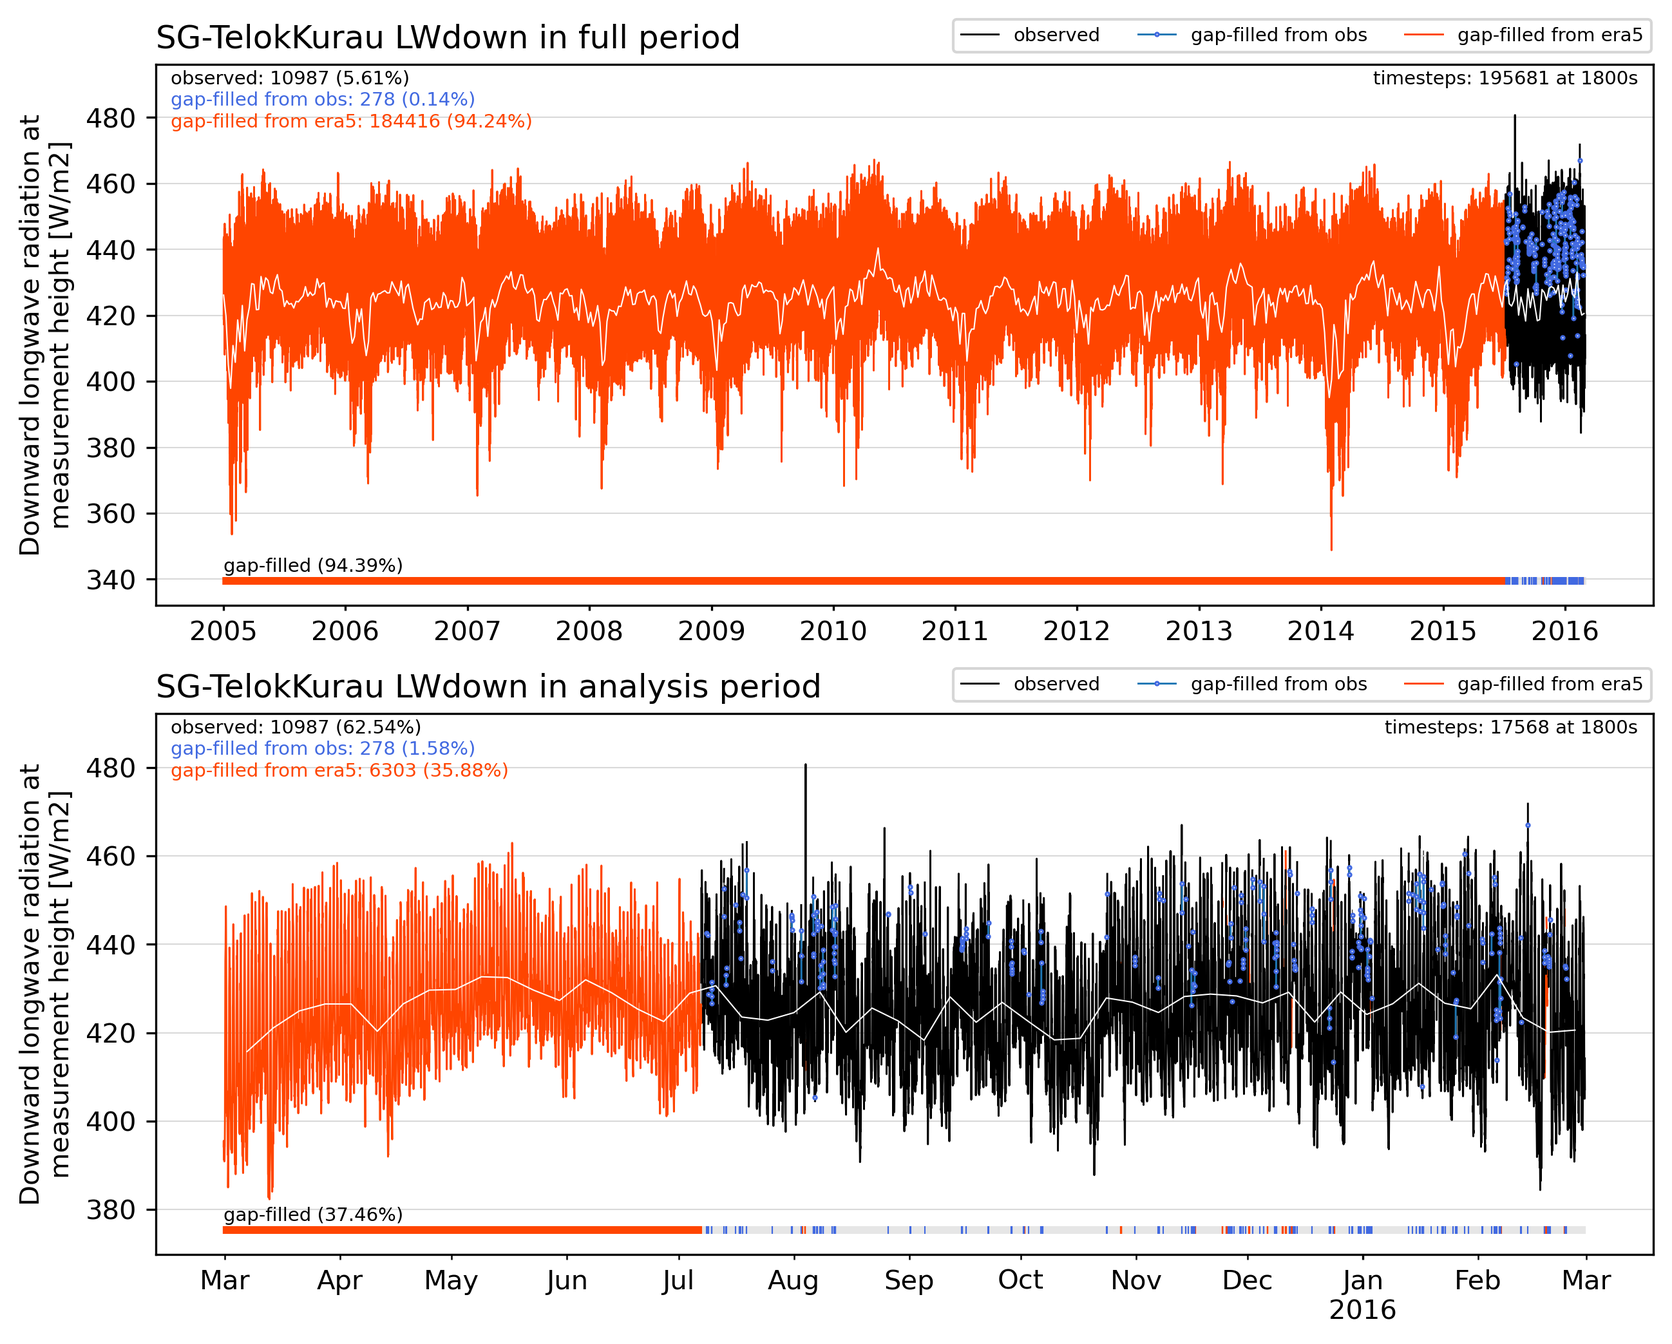
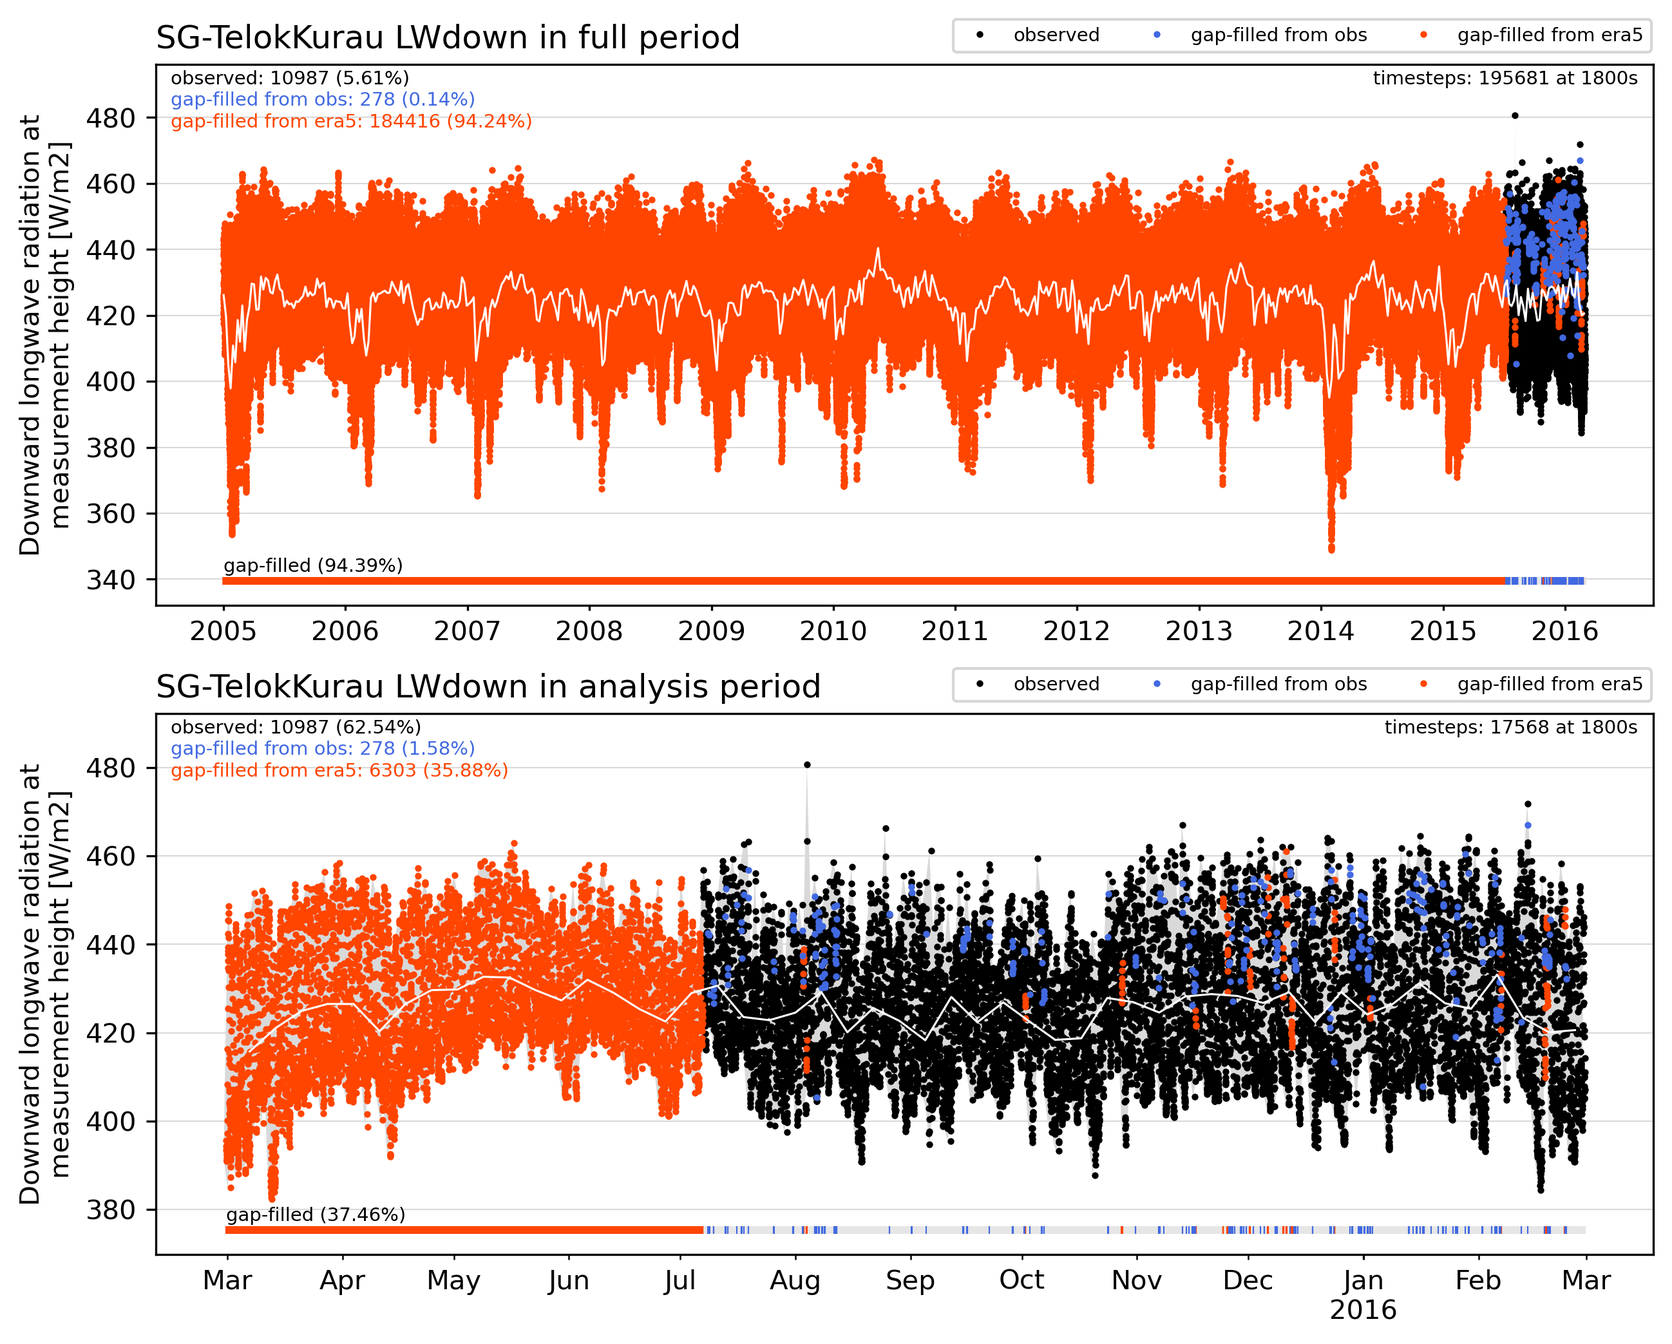
update SG-TelokKurau plots, and add site photo

diff --git a/SG-TelokKurau/index.md b/SG-TelokKurau/index.md
@@ -2,6 +2,10 @@
 
 ## Site observations
 
+Observation data contact:
+
+Eric Velasco: he_velasco2003@yahoo.com; Matthias Roth: geomr@nus.edu.sg
+
 |                           | observation_attributes                                                                                                                                                                                                                                                                    |
 |:--------------------------|:------------------------------------------------------------------------------------------------------------------------------------------------------------------------------------------------------------------------------------------------------------------------------------------|
 | title                     | URBAN-PLUMBER forcing data for SG-TelokKurau                                                                                                                                                                                                                                              |
@@ -10,52 +14,53 @@
 | version                   | v1                                                                                                                                                                                                                                                                                        |
 | conventions               | ALMA+CF.rev13                                                                                                                                                                                                                                                                             |
 | featureType               | timeSeries                                                                                                                                                                                                                                                                                |
-| time_coverage_start       | 2015-02-28 16:30:00                                                                                                                                                                                                                                                                       |
+| time_coverage_start       | 2005-01-01 00:00:00                                                                                                                                                                                                                                                                       |
 | time_coverage_end         | 2016-02-29 16:00:00                                                                                                                                                                                                                                                                       |
 | time_analysis_start       | 2015-02-28 16:30:00                                                                                                                                                                                                                                                                       |
 | time_shown_in             | UTC                                                                                                                                                                                                                                                                                       |
 | local_utc_offset_hours    | 8.0                                                                                                                                                                                                                                                                                       |
 | timestep_interval_seconds | 1800.0                                                                                                                                                                                                                                                                                    |
-| timestep_number_spinup    | 0                                                                                                                                                                                                                                                                                         |
+| timestep_number_spinup    | 178113                                                                                                                                                                                                                                                                                    |
 | timestep_number_analysis  | 17568                                                                                                                                                                                                                                                                                     |
-| date_created              | 2021-02-16 15:07:27                                                                                                                                                                                                                                                                       |
+| date_created              | 2021-02-17 12:56:51                                                                                                                                                                                                                                                                       |
 | project_contact           | Mathew Lipson: m.lipson@unsw.edu.au, Sue Grimmond: c.s.grimmond@reading.ac.uk, Martin Best: martin.best@metoffice.gov.uk                                                                                                                                                                  |
 | observations_contact      | Eric Velasco: he_velasco2003@yahoo.com; Matthias Roth: geomr@nus.edu.sg                                                                                                                                                                                                                   |
-| observations_reference    | Roth, Jansson and Velasco (2017) https://doi.org/10.1002/joc.4873                                                                                                                                                                                                                         |
-|                           | Velasco, Roth, Tan, Quak, Nabarro, Norford. (2013) https://doi.org/10.5194/acp-13-10185-2013                                                                                                                                                                                              |
-|                           | Flux tower website: https://www.nusurbanclimate.com/tkfluxtowersingapore                                                                                                                                                                                                                  |
+| observations_reference    | Roth, Jansson and Velasco (2017) https://doi.org/10.1002/joc.4873; Velasco, Roth, Tan, Quak, Nabarro, Norford. (2013) https://doi.org/10.5194/acp-13-10185-2013; Flux tower website: https://www.nusurbanclimate.com/tkfluxtowersingapore                                                 |
 | other_references          | ERA5: Copernicus Climate Change Service (C3S) (2017): https://cds.climate.copernicus.eu/cdsapp#!/home                                                                                                                                                                                     |
 | acknowledgements          | Contains modified Copernicus Climate Change Service Information (ERA5 hourly data on single levels). With thanks to all involved in collecting, processing and sharing observational data                                                                                                 |
 
 ## Site characteristics
 
+[![site_photo.jpg](site_photo.jpg)](site_photo.jpg)
 
-|   id | parameter                       |     value | units         | source                | doi                                                         |
-|-----:|:--------------------------------|----------:|:--------------|:----------------------|:------------------------------------------------------------|
-|    1 | latitude                        |    1.3143 | degrees_north | Roth et al., 2017     | https://doi.org/10.1002/joc.4873                            |
-|    2 | longitude                       |  103.911  | degrees_east  | Roth et al., 2017     | https://doi.org/10.1002/joc.4873                            |
-|    3 | ground_height                   |   10      | m             | Observations website  | https://www.nusurbanclimate.com/tkfluxtowersingapore        |
-|    4 | measurement_height_above_ground |   23.5    | m             | Observations website  | https://www.nusurbanclimate.com/tkfluxtowersingapore        |
-|    5 | impervious_area_fraction        |    0.85   | 1             | Observations website  | https://www.nusurbanclimate.com/tkfluxtowersingapore        |
-|    6 | tree_area_fraction              |    0.11   | 1             | Observations website  | https://www.nusurbanclimate.com/tkfluxtowersingapore        |
-|    7 | grass_area_fraction             |    0.04   | 1             | Observations website  | https://www.nusurbanclimate.com/tkfluxtowersingapore        |
-|    8 | bare_soil_area_fraction         |    0      | 1             | Observations website  | https://www.nusurbanclimate.com/tkfluxtowersingapore        |
-|    9 | water_area_fraction             |    0      | 1             | Observations website  | https://www.nusurbanclimate.com/tkfluxtowersingapore        |
-|   10 | roof_area_fraction              |    0.39   | 1             | Observations website  | https://www.nusurbanclimate.com/tkfluxtowersingapore        |
-|   11 | road_area_fraction              |    0.12   | 1             | Observations website  | https://www.nusurbanclimate.com/tkfluxtowersingapore        |
-|   12 | footpath_area_fraction          |    0.34   | 1             | Observations website  | https://www.nusurbanclimate.com/tkfluxtowersingapore        |
-|   13 | building_mean_height            |    9.9    | m             | Observations website  | https://www.nusurbanclimate.com/tkfluxtowersingapore        |
-|   14 | tree_mean_height                |    7.3    | m             | Observations website  | https://www.nusurbanclimate.com/tkfluxtowersingapore        |
-|   15 | roughness_length_momentum       |    0.8    | m             | Observations website  | https://www.nusurbanclimate.com/tkfluxtowersingapore        |
-|   16 | displacement_height             |    7.34   | m             | Observations website  | https://www.nusurbanclimate.com/tkfluxtowersingapore        |
-|   17 | canyon_height_width_ratio       |    0.61   | 1             | Demuzere et al., 2017 | https://doi.org/10.1002/qj.3028                             |
-|   18 | wall_to_plan_area_ratio         |    0.66   | 1             | Liu et al., 2017      | https://iopscience.iop.org/article/10.1088/1748-9326/aa7ee7 |
-|   19 | average_albedo_at_midday        |    0.167  | 1             | -                     | -                                                           |
-|   20 | resident_population_density     | 7490      | person/km2    | Roth et al., 2017     | https://doi.org/10.1002/joc.4873                            |
-|   21 | anthropogenic_heat_flux_mean    |   11      | W/m2          | Quah and Roth 2012    | https://doi.org/10.1016/j.atmosenv.2011.10.015              |
-|   22 | topsoil_clay_fraction           |    0.33   | 1             | OpenLandMap           | https://www.openlandmap.org/                                |
-|   23 | topsoil_sand_fraction           |    0.42   | 1             | OpenLandMap           | https://www.openlandmap.org/                                |
-|   24 | topsoil_bulk_density            | 1030      | kg/m3         | OpenLandMap           | https://www.openlandmap.org/                                |
+"View of TK study area towards SE from above in August 2017." image source: Minghong Yu and Matthias Roth
+
+|   id | parameter                       |     value | units         | source               | doi                                                                                                                        |
+|-----:|:--------------------------------|----------:|:--------------|:---------------------|:---------------------------------------------------------------------------------------------------------------------------|
+|    1 | latitude                        |    1.3143 | degrees_north | Roth et al. 2017     | [https://doi.org/10.1002/joc.4873](https://doi.org/10.1002/joc.4873)                                                       |
+|    2 | longitude                       |  103.911  | degrees_east  | Roth et al. 2017     | [https://doi.org/10.1002/joc.4873](https://doi.org/10.1002/joc.4873)                                                       |
+|    3 | ground_height                   |    5      | m             | Velasco et al. 2013  | [https://doi.org/10.5194/acp-13-10185-2013](https://doi.org/10.5194/acp-13-10185-2013)                                     |
+|    4 | measurement_height_above_ground |   23.5    | m             | Tower website        | [https://www.nusurbanclimate.com/tkfluxtowersingapore](https://www.nusurbanclimate.com/tkfluxtowersingapore)               |
+|    5 | impervious_area_fraction        |    0.85   | 1             | Tower website        | [https://www.nusurbanclimate.com/tkfluxtowersingapore](https://www.nusurbanclimate.com/tkfluxtowersingapore)               |
+|    6 | tree_area_fraction              |    0.11   | 1             | Tower website        | [https://www.nusurbanclimate.com/tkfluxtowersingapore](https://www.nusurbanclimate.com/tkfluxtowersingapore)               |
+|    7 | grass_area_fraction             |    0.04   | 1             | Tower website        | [https://www.nusurbanclimate.com/tkfluxtowersingapore](https://www.nusurbanclimate.com/tkfluxtowersingapore)               |
+|    8 | bare_soil_area_fraction         |    0      | 1             | Tower website        | [https://www.nusurbanclimate.com/tkfluxtowersingapore](https://www.nusurbanclimate.com/tkfluxtowersingapore)               |
+|    9 | water_area_fraction             |    0      | 1             | Tower website        | [https://www.nusurbanclimate.com/tkfluxtowersingapore](https://www.nusurbanclimate.com/tkfluxtowersingapore)               |
+|   10 | roof_area_fraction              |    0.39   | 1             | Tower website        | [https://www.nusurbanclimate.com/tkfluxtowersingapore](https://www.nusurbanclimate.com/tkfluxtowersingapore)               |
+|   11 | road_area_fraction              |    0.12   | 1             | Tower website        | [https://www.nusurbanclimate.com/tkfluxtowersingapore](https://www.nusurbanclimate.com/tkfluxtowersingapore)               |
+|   12 | footpath_area_fraction          |    0.34   | 1             | Tower website        | [https://www.nusurbanclimate.com/tkfluxtowersingapore](https://www.nusurbanclimate.com/tkfluxtowersingapore)               |
+|   13 | building_mean_height            |    9.9    | m             | Tower website        | [https://www.nusurbanclimate.com/tkfluxtowersingapore](https://www.nusurbanclimate.com/tkfluxtowersingapore)               |
+|   14 | tree_mean_height                |    7.3    | m             | Tower website        | [https://www.nusurbanclimate.com/tkfluxtowersingapore](https://www.nusurbanclimate.com/tkfluxtowersingapore)               |
+|   15 | roughness_length_momentum       |    0.8    | m             | Tower website        | [https://www.nusurbanclimate.com/tkfluxtowersingapore](https://www.nusurbanclimate.com/tkfluxtowersingapore)               |
+|   16 | displacement_height             |    7.34   | m             | Tower website        | [https://www.nusurbanclimate.com/tkfluxtowersingapore](https://www.nusurbanclimate.com/tkfluxtowersingapore)               |
+|   17 | canyon_height_width_ratio       |    0.61   | 1             | Demuzere et al. 2017 | [https://doi.org/10.1002/qj.3028](https://doi.org/10.1002/qj.3028)                                                         |
+|   18 | wall_to_plan_area_ratio         |    0.66   | 1             | Liu et al. 2017      | [https://iopscience.iop.org/article/10.1088/1748-9326/aa7ee7](https://iopscience.iop.org/article/10.1088/1748-9326/aa7ee7) |
+|   19 | average_albedo_at_midday        |    0.167  | 1             | Current data         | -                                                                                                                          |
+|   20 | resident_population_density     | 7490      | person/km2    | Roth et al. 2017     | [https://doi.org/10.1002/joc.4873](https://doi.org/10.1002/joc.4873)                                                       |
+|   21 | anthropogenic_heat_flux_mean    |   11      | W/m2          | Quah and Roth 2012   | [https://doi.org/10.1016/j.atmosenv.2011.10.015](https://doi.org/10.1016/j.atmosenv.2011.10.015)                           |
+|   22 | topsoil_clay_fraction           |    0.33   | 1             | OpenLandMap          | [https://doi.org/10.5281/zenodo.2525663](https://doi.org/10.5281/zenodo.2525663)                                           |
+|   23 | topsoil_sand_fraction           |    0.42   | 1             | OpenLandMap          | [https://doi.org/10.5281/zenodo.2525662](https://doi.org/10.5281/zenodo.2525662)                                           |
+|   24 | topsoil_bulk_density            | 1030      | kg/m3         | OpenLandMap          | [https://doi.org/10.5281/zenodo.2525665](https://doi.org/10.5281/zenodo.2525665)                                           |
 
 ## Site observations
 
@@ -99,29 +104,28 @@
 
 [![./obs_plots/Wind_E_gapfilled_forcing.png](./obs_plots/Wind_E_gapfilled_forcing.png)](./obs_plots/Wind_E_gapfilled_forcing.png)
 
-## Quality control and gap filling procedure
+## Quality control (qc) and gap filling procedure
 
 
 **QC process on observations**
  
  - remove values outside the ALMAv3 protocol expected range values
  - remove night periods for shortwave between civil twilight times for site latitude and longitude
- - remove constant values of 4 or more timesteps (for all data excluding rainfall, snowfall)
- - remove constant values of 6 or more timesteps, excluding zero values (only rainfall, snowfall)
+ - remove constant values of 4 or more timesteps (excluding rainfall and snowfall)
  - remove outliers by applying a filter for values outside 5 standard deviations for each hour in a rolling 30 day window. Applying that filter until no outliers exist.
  
 **Gap-filling process**
   
  - for gaps of 2 hours or less, fill with linear interpolation of adjacent observation
- - fill remaining gaps with bias-corrected, ERA5 derived data
+ - fill remaining gaps with bias-corrected, ERA5 derived data (see below)
  - prepend flux tower data period with 10-years of ERA5 derived data (used for model spinup)
  
 **ERA5 bias correction**
  
- - for downwelling longwave, temperature, humidity and pressure: calculate the mean bias between ERA5 and flux tower data in a 30-day rolling window for every hour of the year, and apply that bias correction to ERA5 data
+ - for downwelling longwave, temperature, humidity and pressure: calculate the mean bias between ERA5 and flux tower data in a 30-day rolling window for every hour and each day of the year, and apply that bias correction to all ERA5 data. For periods not covered by observations, linearly interpoloate between known biases for each hour seperately.
  - for rainfall: calculate total precipitation in a 10-year period and calculate the ratio between ERA5 data and the nearest GHCN-D station and apply that correction factor to ERA5 data.
  - for wind: apply wind log profile correction based on ERA5 reference height (10m) and flux tower measurement heights, plus ERA5 and local roughness and displacement.
- - for downwelling shortwave: use ERA5 data without bias correction
+ - for downwelling shortwave: use ERA5 data without correction
 
 ### SWdown diurnal qc
 
